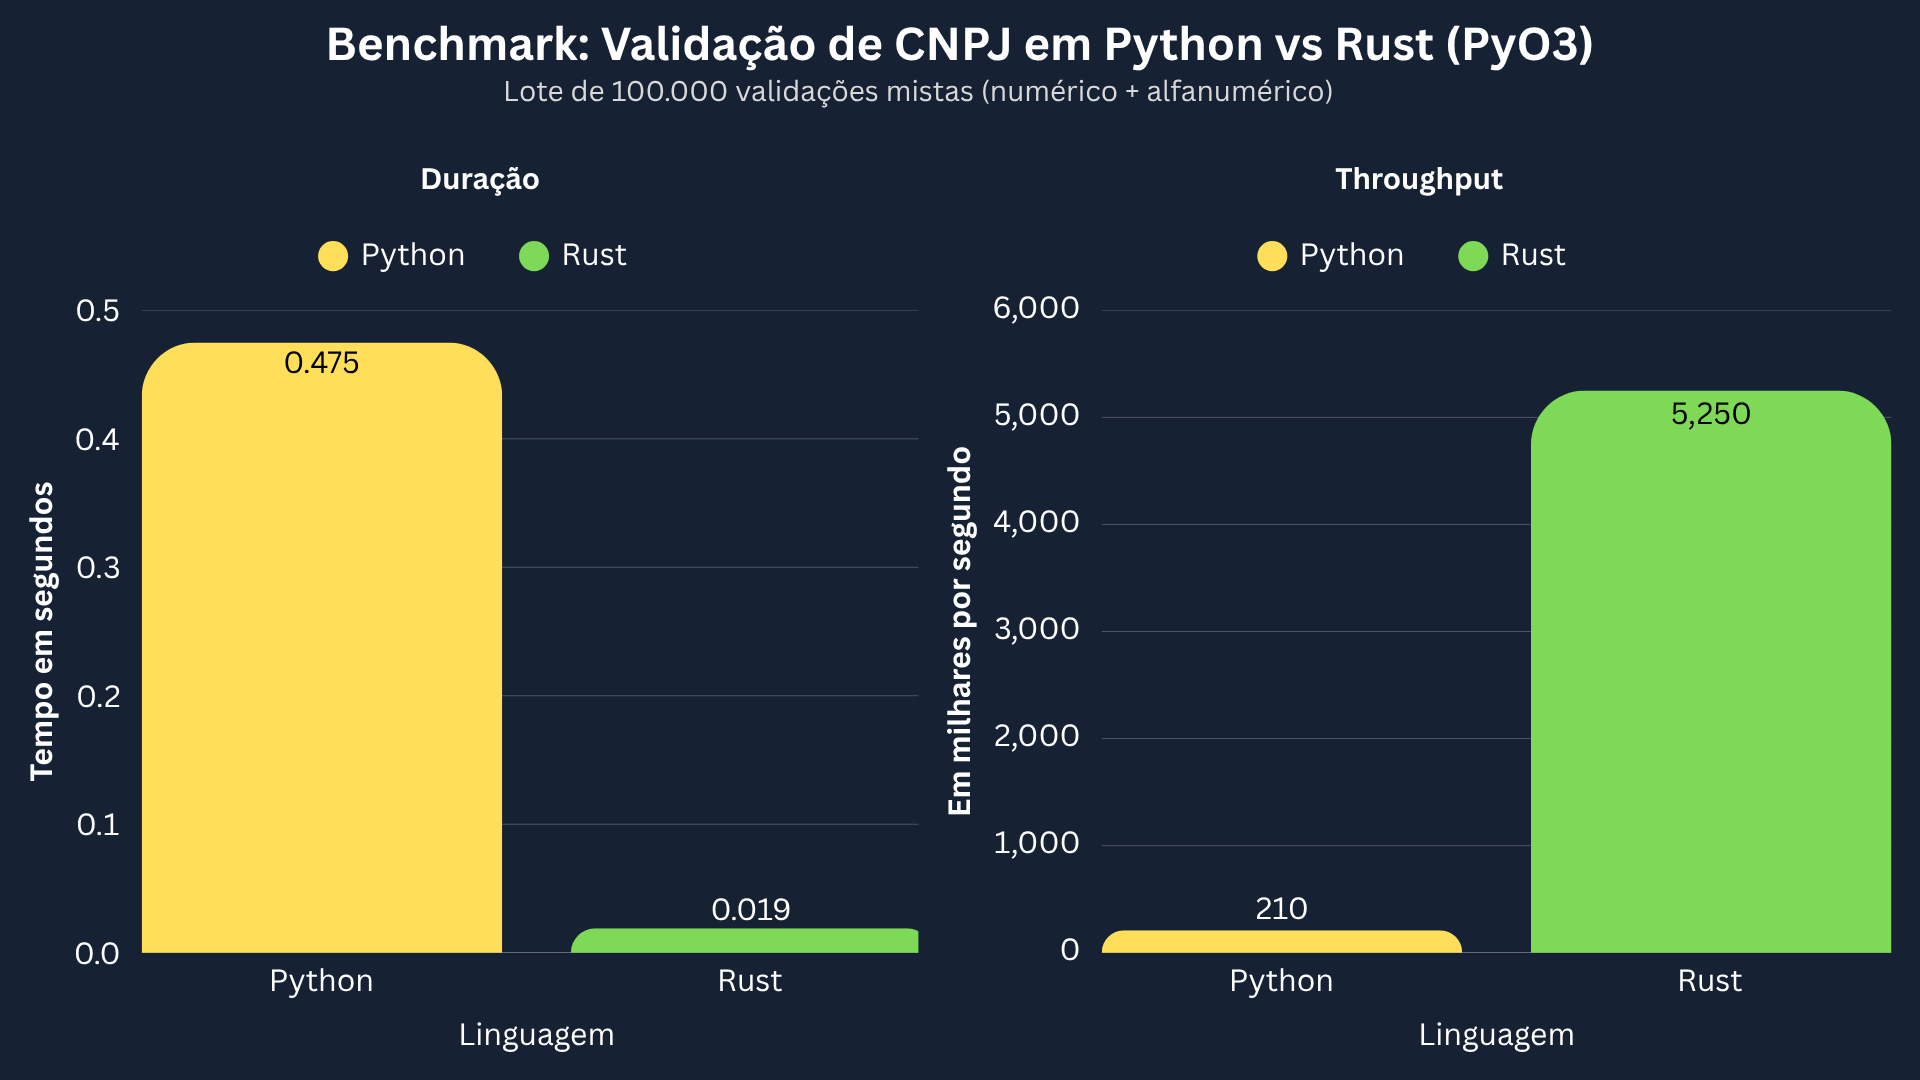
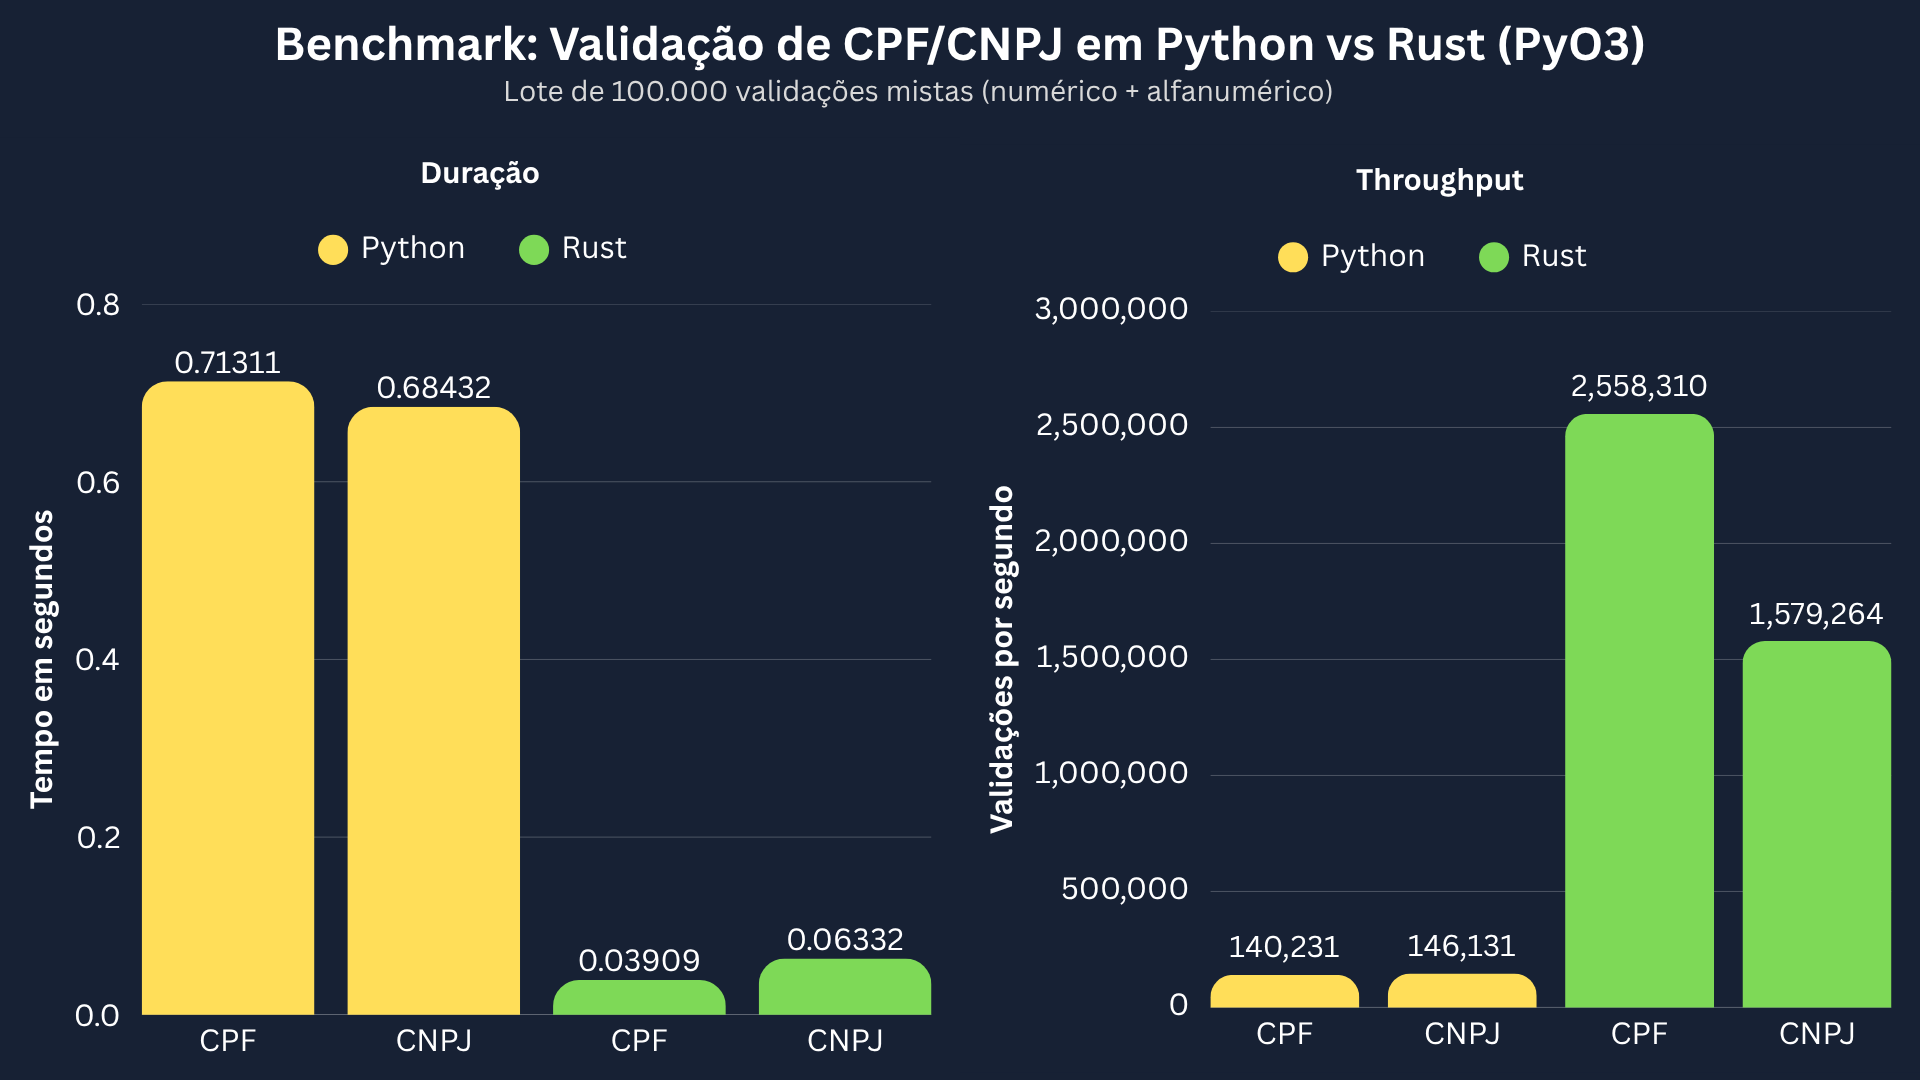
feat: add cpf

diff --git a/posts/0016-cnpj-alfanumerico-rust-python-performance/README.md b/posts/0016-cnpj-alfanumerico-rust-python-performance/README.md
@@ -237,18 +237,34 @@ Esse formato entrega o melhor dos dois mundos:
 
 ## Benchmark: onde o ganho aparece
 
-Nos testes documentados no projeto, com 100.000 validações mistas de CNPJ (formatadas, sem formatação e alfanuméricas), o resultado foi:
+Com `make bench` rodando **100.000 validações por cenário** (CNPJ e CPF), os resultados coletados foram:
 
-| Linguagem | Tempo de execução | Validações por segundo |
-| --- | --- | --- |
-| Python puro | ~0,475s | ~210.000/s |
-| Rust (PyO3) | ~0,019s | ~5.250.000/s |
+**Análise 1: Tempo de execução (s)**
+
+| Documento | Python | Rust |
+| --- | ---: | ---: |
+| CNPJ | 0,684318s | **0,063321s** |
+| CPF | 0,713108s | **0,039088s** |
+
+**Análise 2: Throughput (validações/segundo)**
+
+| Documento | Python | Rust |
+| --- | ---: | ---: |
+| CNPJ | 146.131/s | **1.579.264/s** |
+| CPF | 140.231/s | **2.558.310/s** |
 
 ![Benchmark Python vs Rust para validacao de CNPJ](imgs/benchmark.png)
 
-Isso representa um ganho de aproximadamente **25x** para o núcleo em Rust.
+**Speedup Rust sobre Python**
 
-A proporção também se mantém alta em testes com volumes menores, mesmo variando por hardware, versão de Python e flags de compilação.
+| Documento | Ganho |
+| --- | ---: |
+| CNPJ | **10,81x** |
+| CPF | **18,24x** |
+
+
+
+Os números variam por hardware, versão de Python, versão de Rust e flags de compilação, mas a vantagem do núcleo nativo se mantém clara nos dois documentos.
 
 ## Por que funciona tão bem?
 